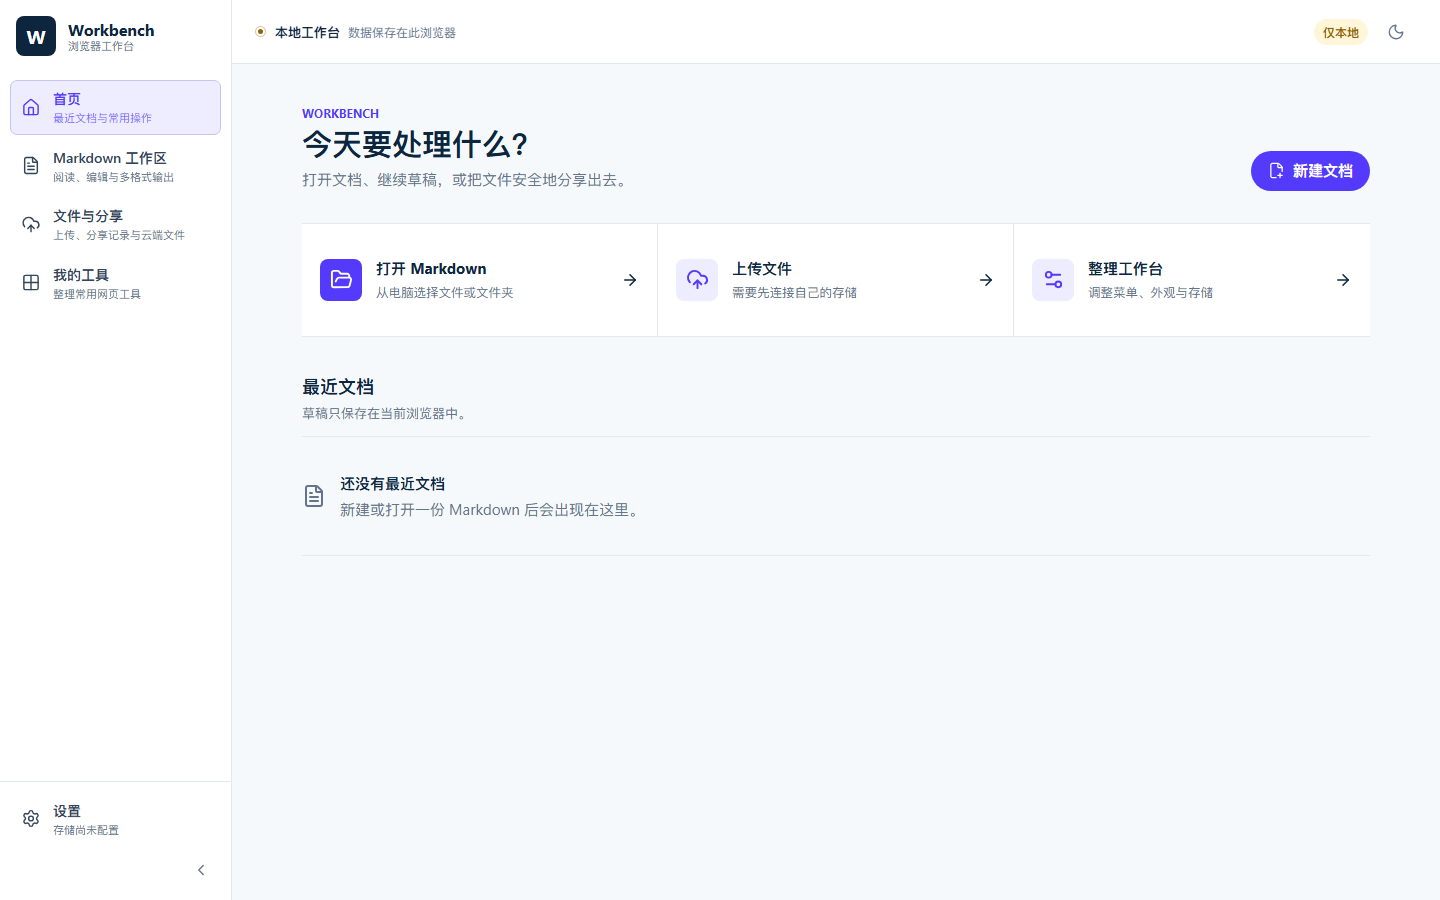
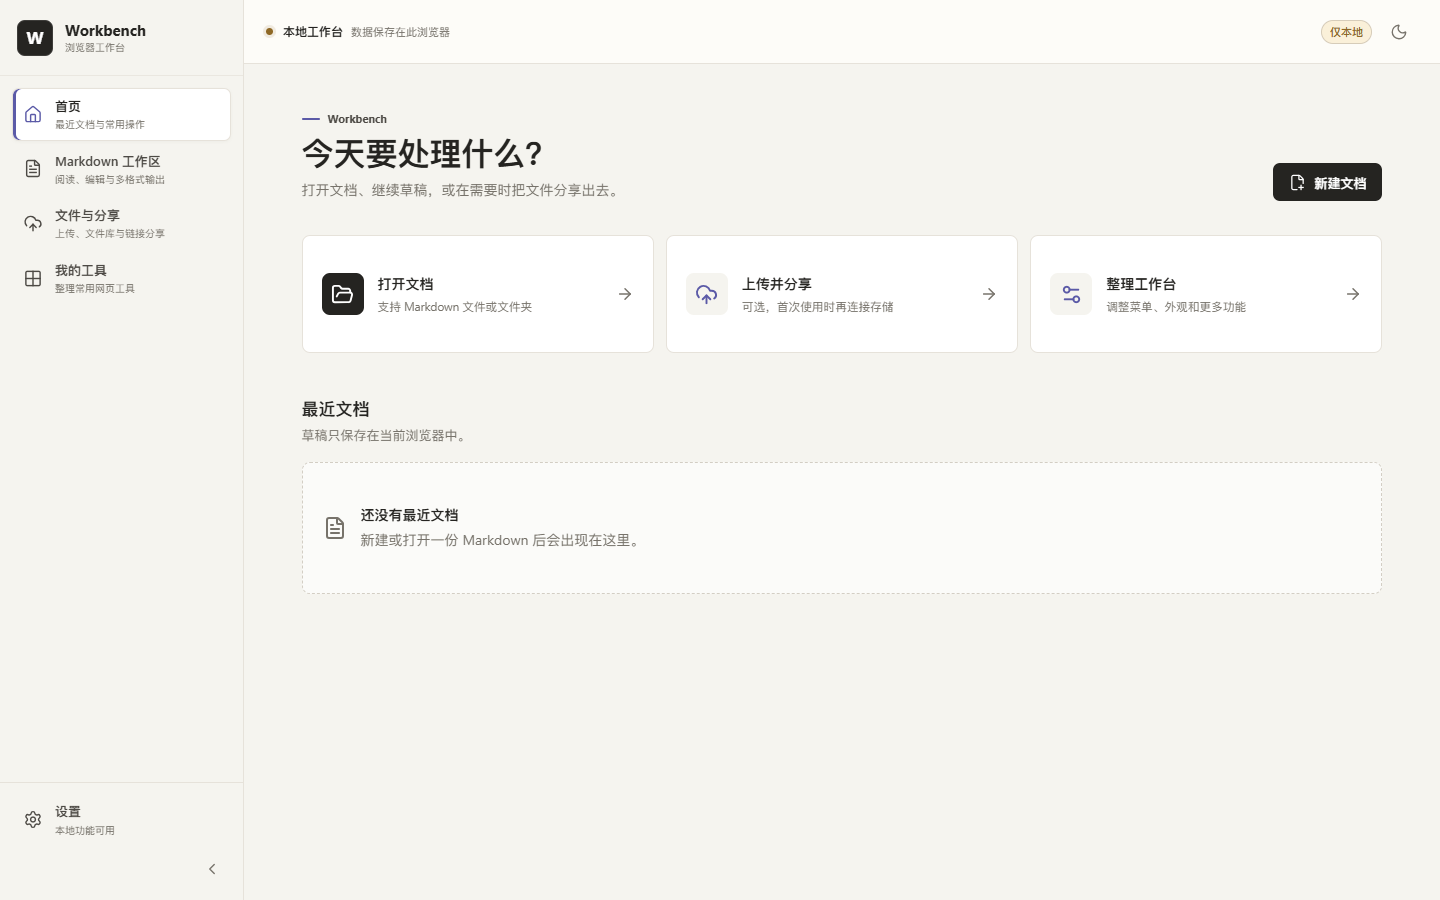
chore: release 0.1.12

diff --git a/docs/release-notes-0.1.12.md b/docs/release-notes-0.1.12.md
@@ -1,0 +1,64 @@
+# Workbench 0.1.12
+
+这一版专注于界面升级：Workbench 采用更克制的暖中性色、石墨色主操作和清晰的信息层级，让文档、文件和设置页面更简约、更安静，也更适合长时间使用。现有功能、数据结构和操作流程保持不变。
+
+## 下载与安装
+
+普通用户不需要安装开发工具，也不需要运行任何命令。
+
+首次安装：
+
+1. 下载 `workbench-browser-extension-0.1.12-chrome.zip`。
+2. 右键 ZIP 文件并选择“全部解压”。
+3. 在 Chrome 地址栏打开 `chrome://extensions`。
+4. 开启“开发者模式”。
+5. 点击“加载已解压的扩展程序”，选择刚刚解压的文件夹。
+
+## 从旧预览版升级
+
+不要先卸载旧版。卸载扩展会让 Chrome 清除当前插件的偏好、草稿和文件库记录。
+
+1. 建议先在“设置 → 权限与隐私”中选择“备份偏好与文件库”。
+2. 下载并解压新版，把新版文件覆盖到原来加载 Workbench 的文件夹。
+3. 打开 `chrome://extensions`，在 Workbench 卡片上点击“重新加载”。
+
+使用原文件夹直接更新时，主题、阅读宽度、草稿、分类和文件库记录都会保留。
+
+## 本次更新
+
+- **统一视觉系统**：以暖白画布、石墨色文字和低饱和主题色替代原来偏亮的紫蓝界面；主操作、选中状态和辅助状态有了明确分工。
+- **更清晰的工作台**：重新调整侧栏、顶栏、页面标题、快捷入口和最近文档的间距、边框、圆角与信息层级。
+- **更安静的 Markdown 工作区**：统一文件列表、文档目录、工具栏、阅读正文、表格、图表、查找替换和改动审阅的视觉语言，保留原有操作位置与能力。
+- **更轻的文件库与设置**：上传区、分类筛选、文件操作、配置表单和设置导航降低视觉噪声，主次操作更容易区分。
+- **插件弹窗同步升级**：新建文档成为明确的首要操作，打开文档、上传文件和最近文档保持紧凑可扫读。
+- **亮色与暗色一致**：两种主题共用同一套层级和形状规范，用户选择的主题色仍用于定位、选中和状态提示。
+- **移动端重新校对**：针对 390px 宽度调整首页、Markdown 工具栏、文件上传和设置导航，避免遮挡与横向溢出。
+
+## 验证情况
+
+- 24 个测试文件共 69 项单元测试全部通过，STS 测试通过。
+- ESLint、TypeScript、文档链接、发布内容扫描和 Chrome 正式构建均通过。
+- 在真实 Chrome 中检查首页、Markdown 工作区、文件库、设置、云端分享、网页工具和插件弹窗等 12 个场景。
+- 1440px 桌面和 390px 窄屏下页面均无横向溢出，浏览器控制台错误和页面运行错误均为 0。
+- 亮色和暗色主题均完成真实页面截图检查。
+
+## 数据与权限
+
+- 本次更新没有新增浏览器权限。
+- 本次更新没有修改存储配置、文档、草稿、分类或文件库的数据结构。
+- 同一插件直接更新会保留本地数据；不要为了升级而先卸载旧版。
+- 本地文件仍默认只在浏览器中处理，只有用户主动上传或在线分享时才会连接所选存储服务。
+
+## 已知限制
+
+- 当前仍需手动加载预览版，正式面向普通用户的 Chrome 商店版本尚未上线。
+- 上传和私有文件下载依赖用户自己的 API 服务或阿里云 OSS；服务端仍需正确配置访问权限和 CORS。
+- 文件库是当前浏览器的上传记录，不是 OSS Bucket 的完整文件浏览器。
+- 卸载扩展仍会让 Chrome 清除插件本地数据；必须卸载时，请先备份偏好与文件库。
+
+## 发布附件
+
+| 文件 | 用途 | SHA-256 |
+| --- | --- | --- |
[1 lines of base64/hex data omitted]
+| `SHA256SUMS.txt` | 文件校验清单 | 见附件内容 |

diff --git a/CHANGELOG.md b/CHANGELOG.md
@@ -4,6 +4,8 @@
 
 ## [Unreleased]
 
+## [0.1.12] - 2026-08-04
+
 ### Changed
 
 - 全面升级 Chrome 插件视觉系统，以暖中性色、石墨色主操作和克制的主题强调色统一首页、Markdown 工作区、文件库、设置、工具页与插件弹窗。
